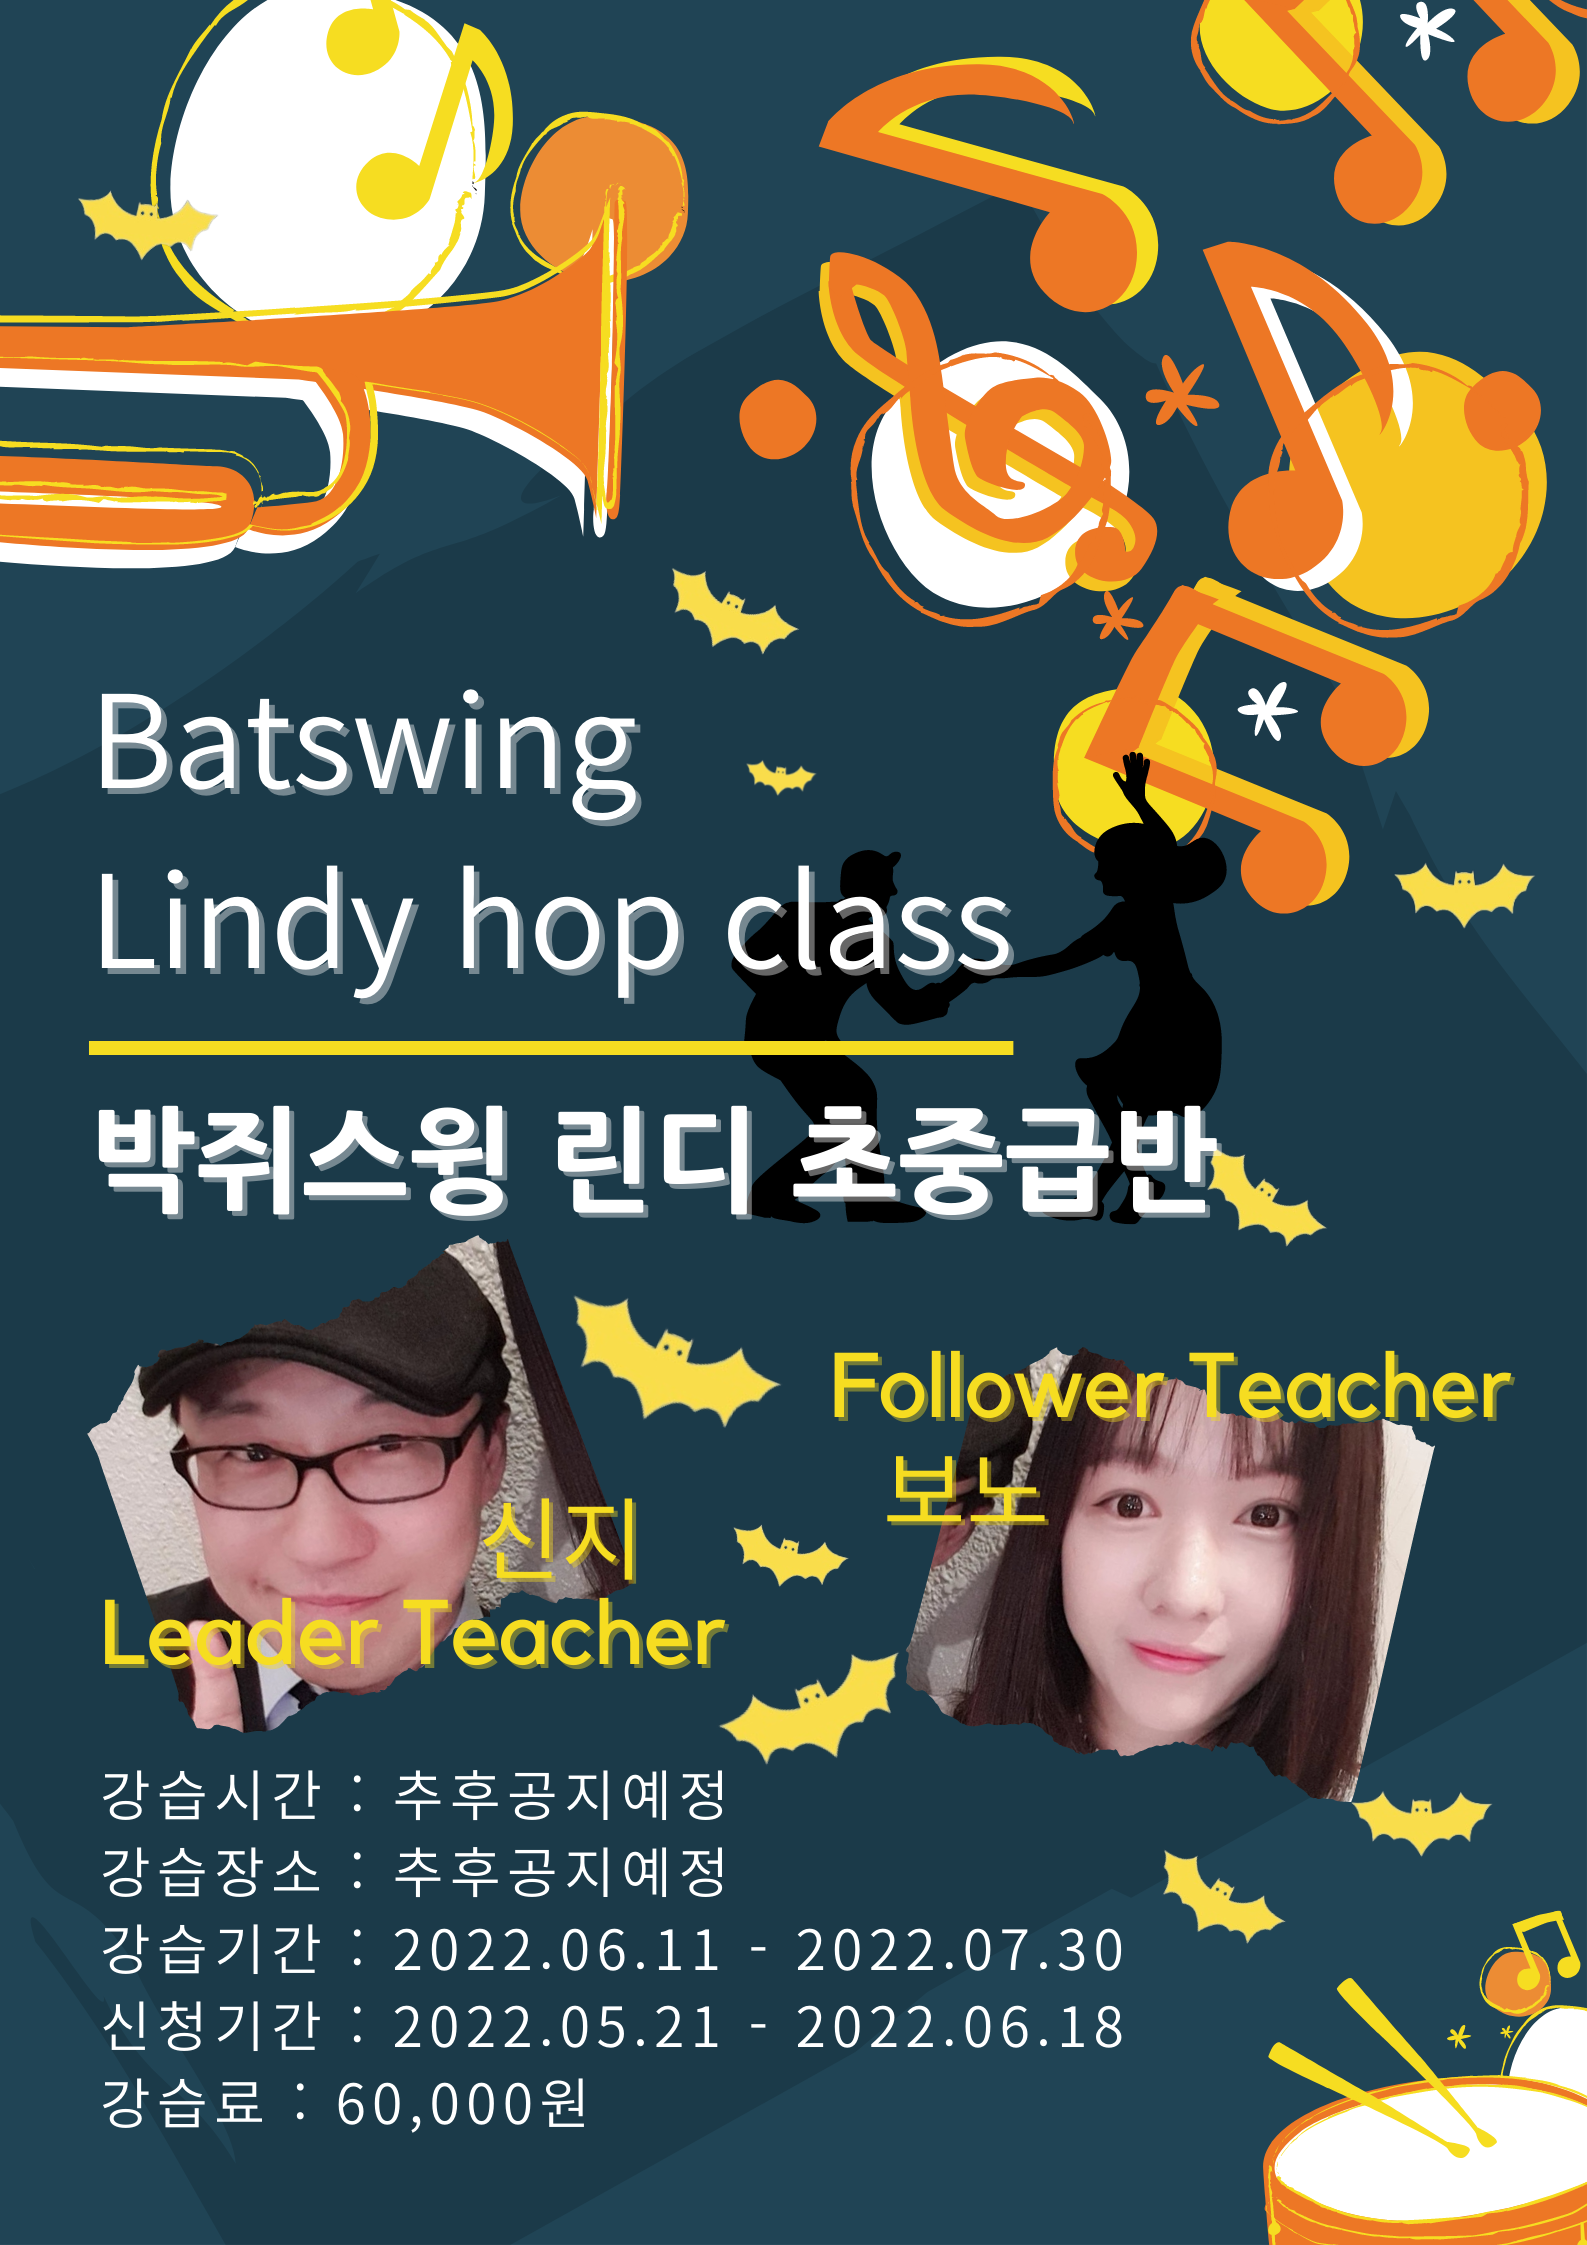
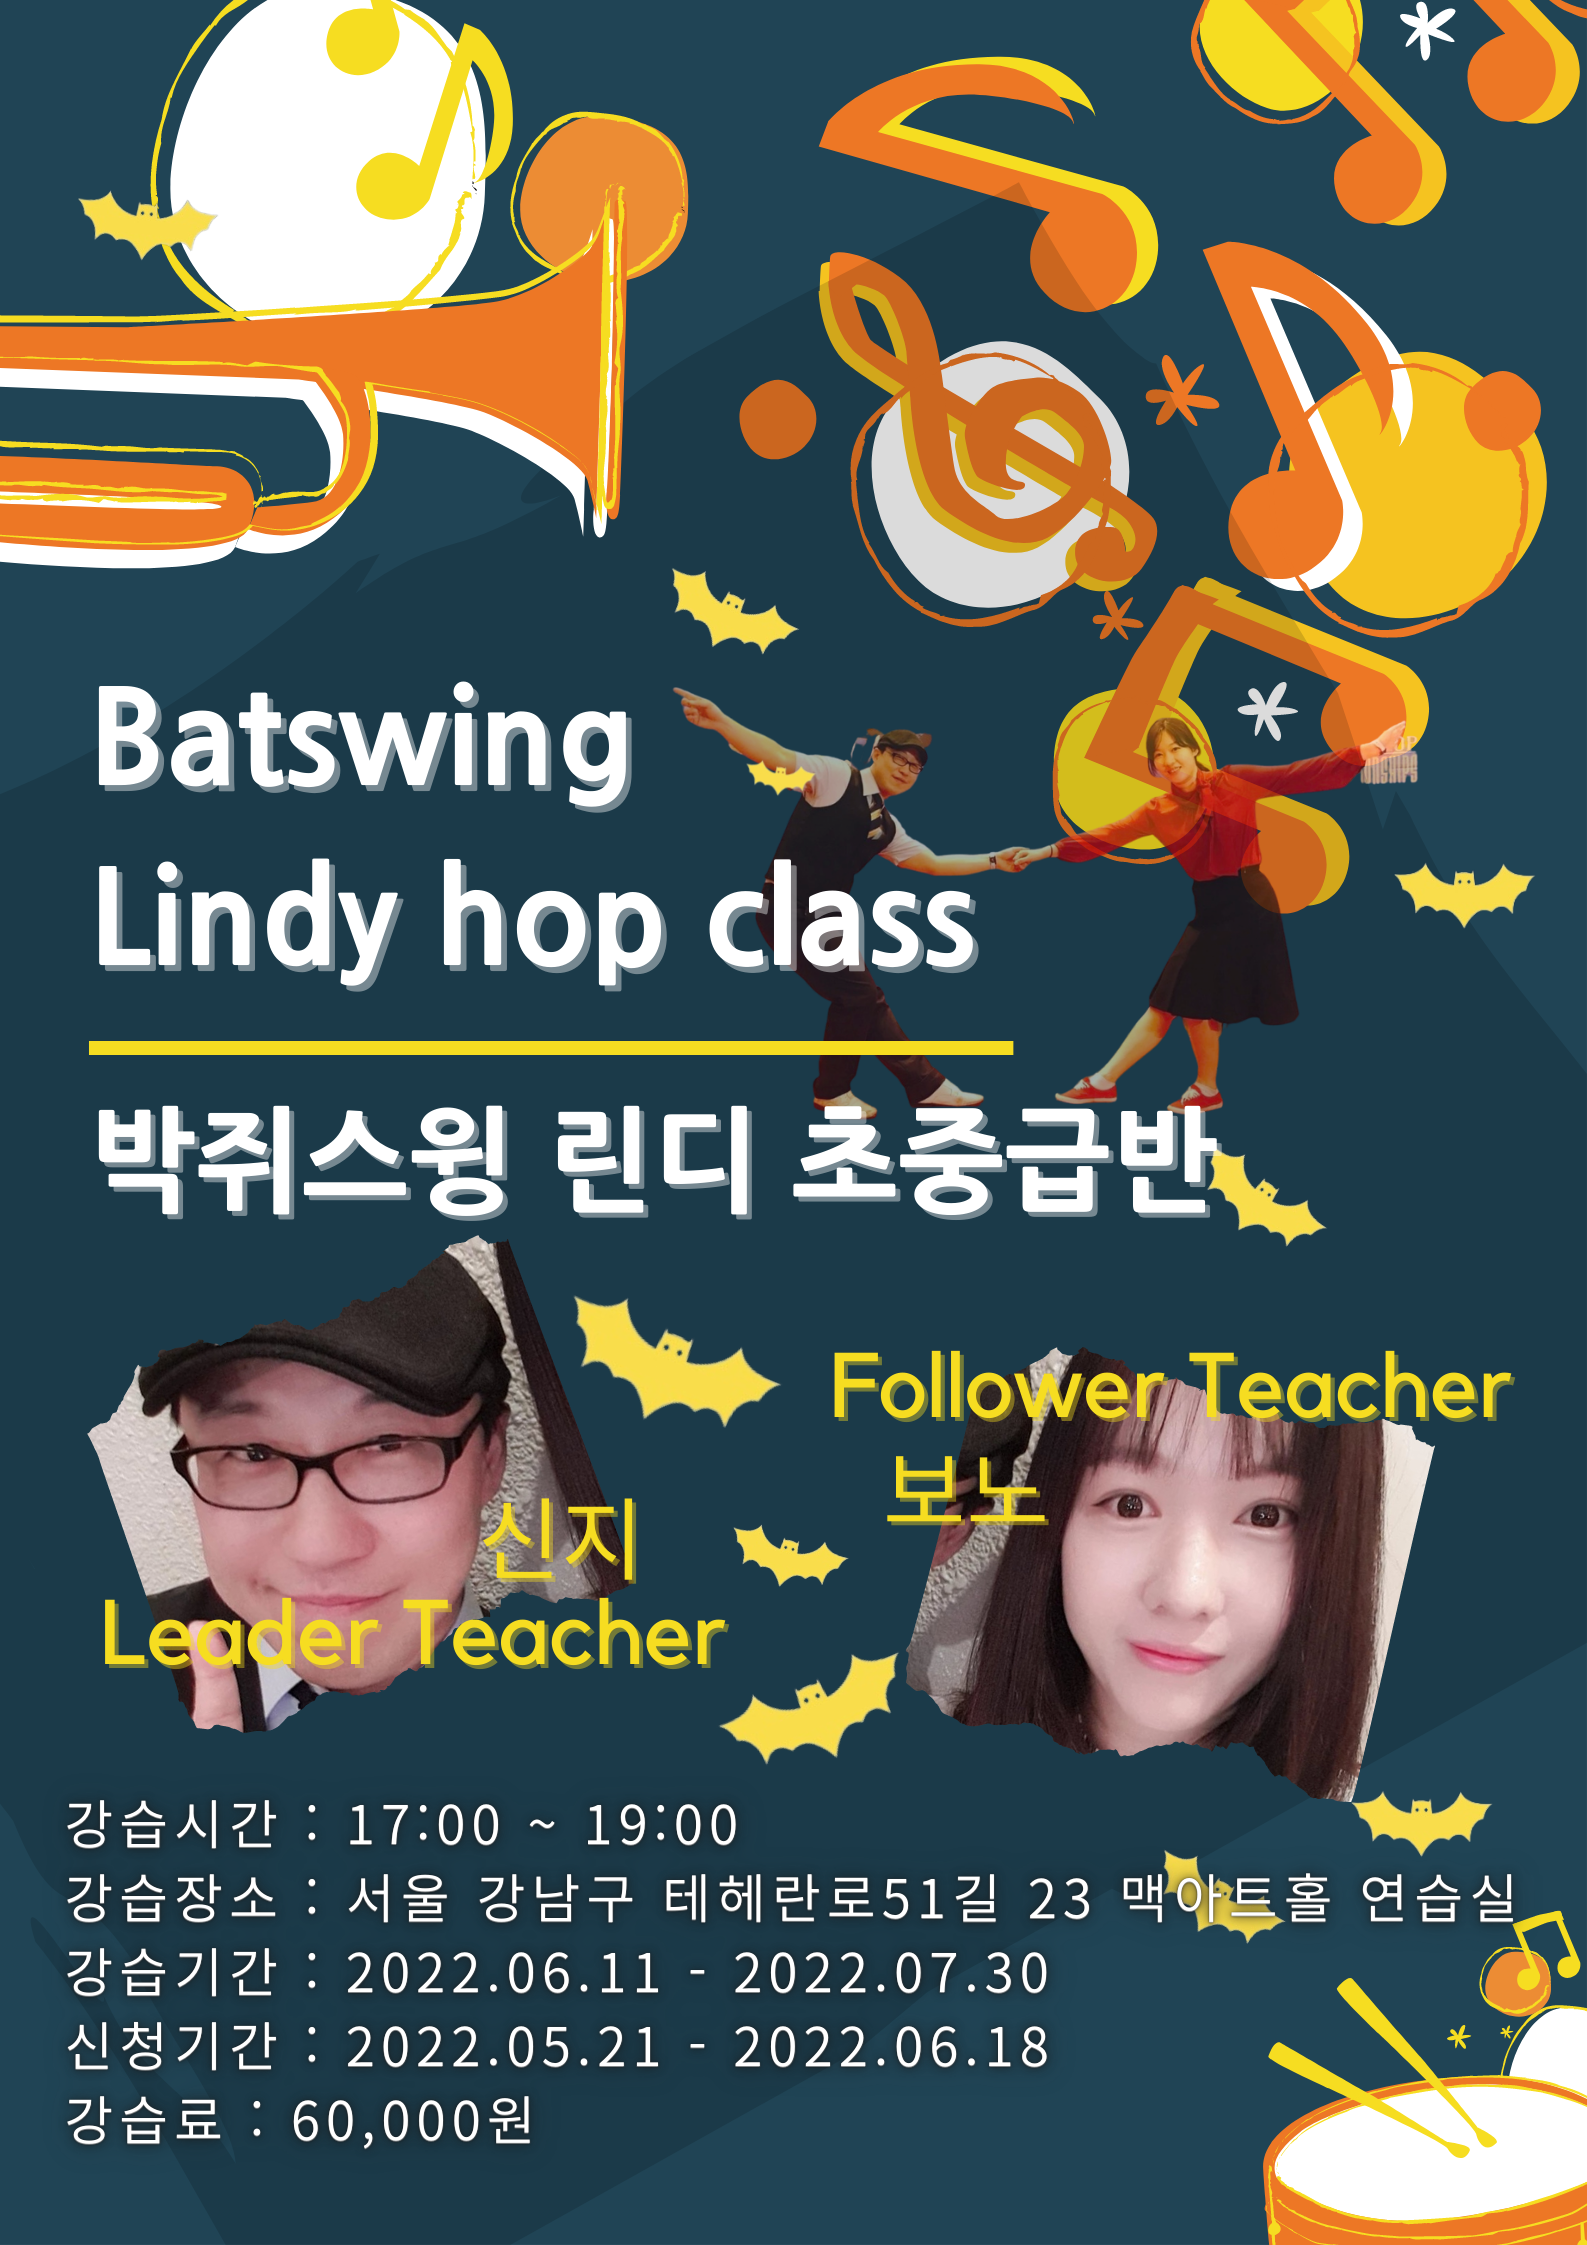
no message

diff --git a/index.html b/index.html
@@ -420,7 +420,7 @@
         <div class="class-image" style="background-image:url('/storage/class/96/96_lindy_1.png');"></div>
         <h2 class="text-class-red mt-2 mb-0 font-face-dohyeon">린디 초급</h2>
         <p class="text-dark mb-3"><small>달려 & 승땡</small></p>
-        <div class="mt-2"> <ul class='mb-3'> <li><strong>- 기간</strong> : 8주 강습(6/11 ~ 7/30)</li> <li><strong>- 시간</strong> : 토요일 (추후 공지 예정)</li> </ul> </div>
+        <div class="mt-2"> <ul class='mb-3'> <li><strong>- 기간</strong> : 8주 강습(6/11 ~ 7/30)</li> <li><strong>- 시간</strong> : 매주 토요일</li> <li><strong>- 장소</strong> : 선릉로 115길 27, 스페이스27 </li> </ul> </div>
         
           <p>
             
@@ -448,7 +448,7 @@
         <div class="class-image" style="background-image:url('/storage/class/96/96_lindy_2.png');"></div>
         <h2 class="text-class-red mt-2 mb-0 font-face-dohyeon">린디 초중급</h2>
         <p class="text-dark mb-3"><small>신지 & 보노보노</small></p>
-        <div class="mt-2"> <ul class='mb-3'> <li><strong>- 기간</strong> : 8주 강습(6/11 ~ 7/30)</li> <li><strong>- 시간</strong> : 토요일 (추후 공지 예정)</li> </ul> </div>
+        <div class="mt-2"> <ul class='mb-3'> <li><strong>- 기간</strong> : 8주 강습(6/11 ~ 7/30)</li> <li><strong>- 시간</strong> : 매주 토요일</li> <li><strong>- 장소</strong> : 테헤란로51길 23, 맥아트홀 연습실</li> </ul> </div>
         
           <p>
             
